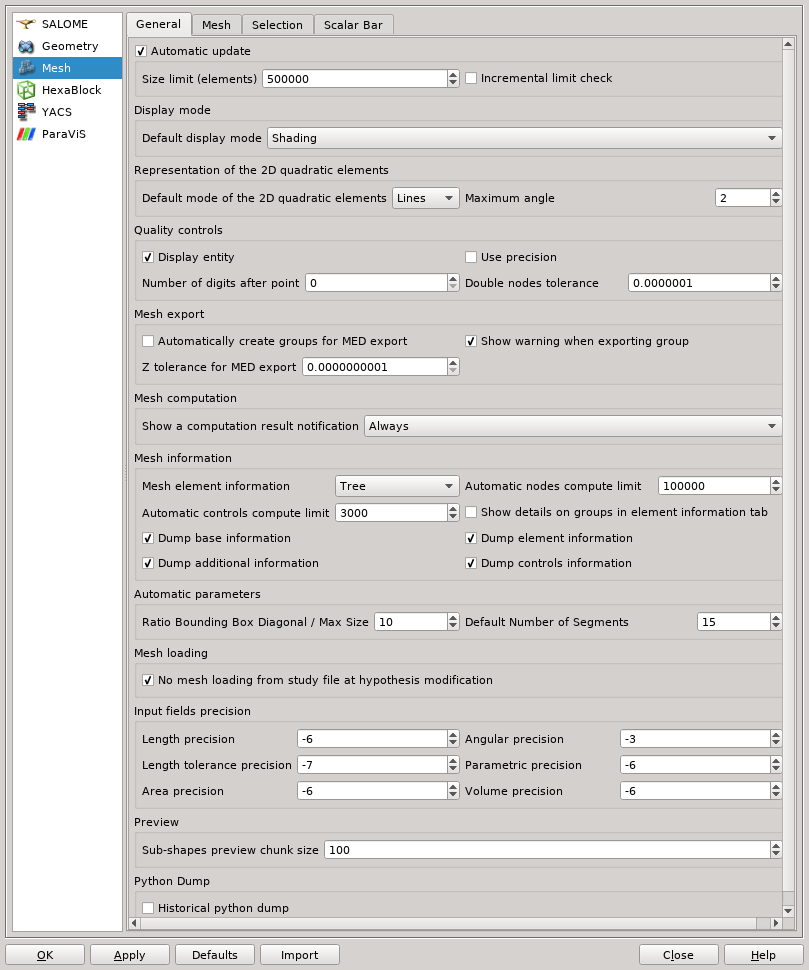
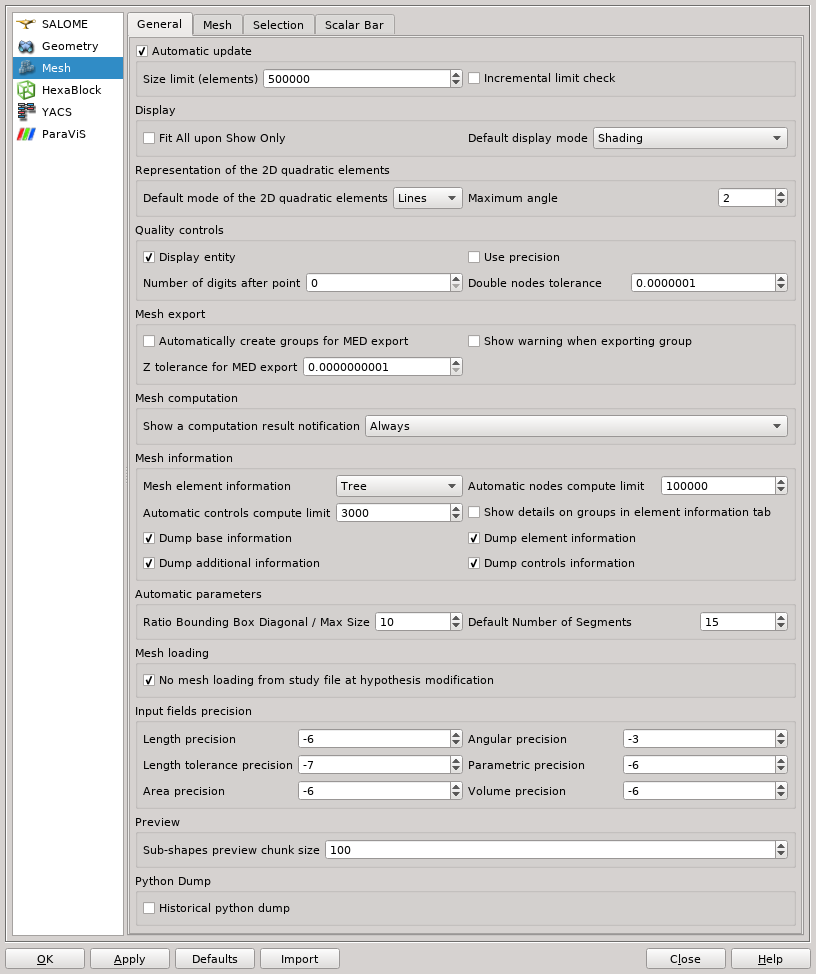
23615: EDF 17317 - Fit All when display one mesh

diff --git a/src/SMESHGUI/SMESH_msg_en.ts b/src/SMESHGUI/SMESH_msg_en.ts
@@ -4733,11 +4733,15 @@ Please, create VTK viewer and try again</translation>
     </message>
     <message>
         <source>PREF_DISPLAY_MODE_GROUP</source>
-        <translation>Display mode</translation>
+        <translation>Display</translation>
     </message>
     <message>
         <source>PREF_DISPLAY_MODE</source>
         <translation>Default display mode</translation>
+    </message>
+    <message>
+        <source>PREF_FITALL_ON_DISPLAYONLY</source>
+        <translation>Fit All upon Show Only</translation>
     </message>
     <message>
         <source>PREF_ELEMENTS</source>

diff --git a/doc/salome/gui/SMESH/input/viewing_meshes_overview.rst b/doc/salome/gui/SMESH/input/viewing_meshes_overview.rst
@@ -47,8 +47,8 @@ right-clicking on the selected mesh.
 * :ref:`Transparency <transparency_page>` - allows to change the transparency of mesh elements.
 * :ref:`Controls <quality_page>` - graphically presents various information about the mesh. 
 * **Hide** - allows to hide the selected mesh from the viewer.
-* **Show Only** - allows to display only the selected mesh, hiding all others from the viewer.
-* :ref:`Clipping <clipping_page>` - allows to create cross-sections of the displayed objects.
+* **Show Only** - allows to display only the selected mesh, hiding all others from the viewer. If :ref:`Fit All upon Show Only <display_mode_pref>` Preference option is active, *Fit All* command is additionally performed.
+* :doc:`clipping` - allows to create cross-sections of the displayed objects.
 * **Dump view** - exports an object from the viewer in bmp, png or jpeg image format.
 * **Change background** - allows to redefine the background color. By default it is black.
 * **View Operations** - allows to show/hide the  visualization toolbar in the Viewer window.

diff --git a/doc/salome/gui/SMESH/input/mesh_preferences.rst b/doc/salome/gui/SMESH/input/mesh_preferences.rst
@@ -22,7 +22,9 @@ General Preferences
 
 .. _display_mode_pref:
 
-* **Display mode**
+* **Display**
+
+  * **Fit All upon Show Only** - if activated, *Show Only* command additionally performs *Fit All* command.
 
   * **Default display mode** - allows to set Wireframe, Shading, Nodes or Shrink :ref:`presentation mode <display_mode_page>` as default.
 
